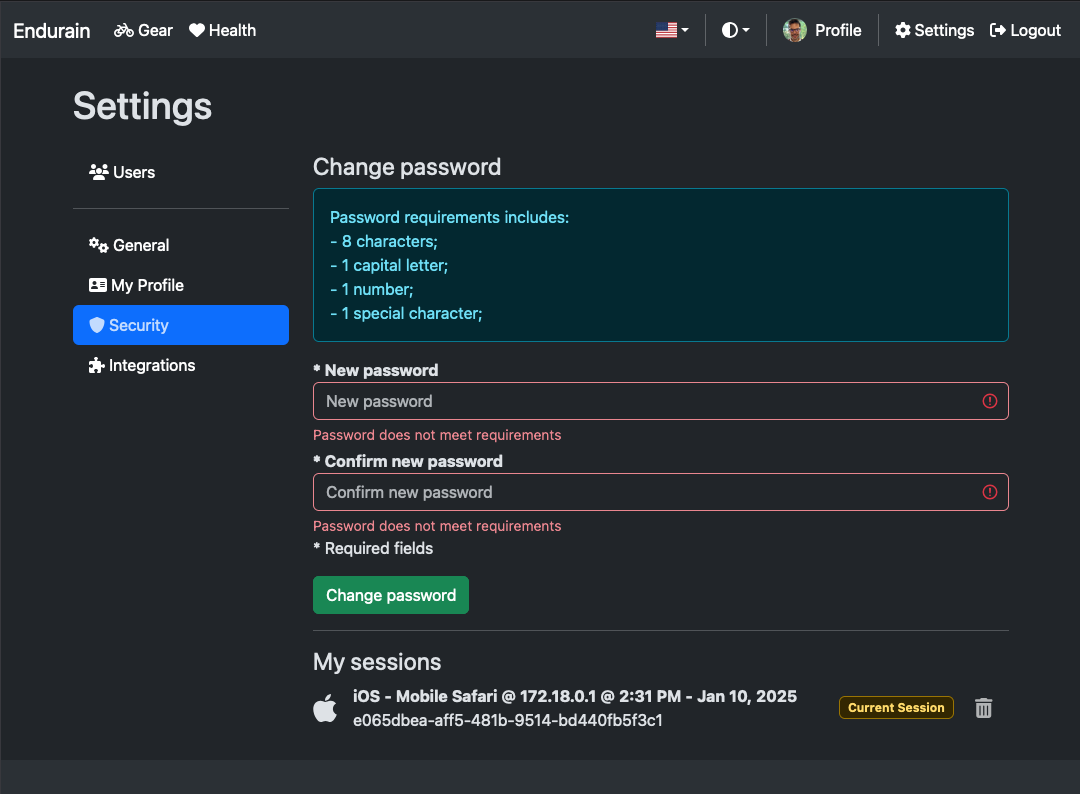
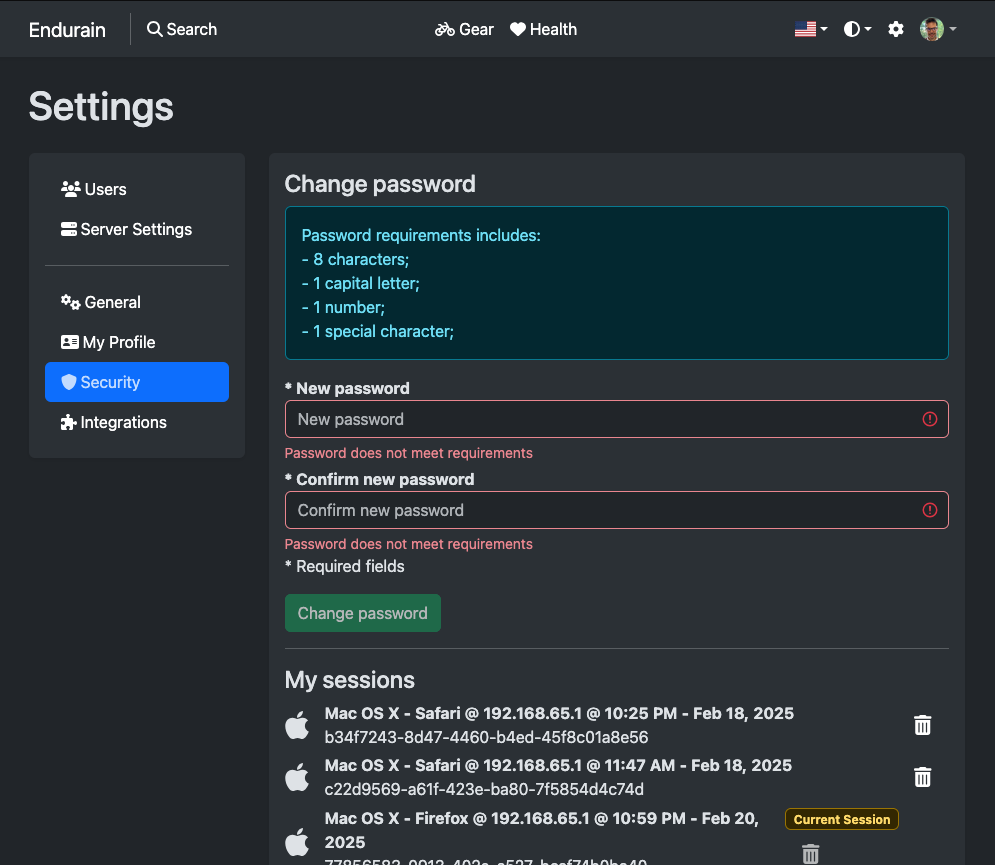
Updated docs gallery screenshots

diff --git a/docs/index.md b/docs/index.md
@@ -45,17 +45,18 @@ If you have any recommendations or insights on improving any aspect of Endurain,
 
 Endurain currently supports:
 
-- Multi-user functionality
-- Admin and user profiles with adaptable interfaces
+- Multi-user functionality with admin and user profiles adaptable interfaces
 - Activity import via manual or bulk upload (.gpx and .fit files. .fit files are preferred)
 - Strava integration for syncing activities and gear
 - Garmin Connect integration for syncing activities, gear and body composition
 - Activity feeds and statistics (week/month)
 - Basic activity privacy settings
 - Gear tracking (wetsuits, bicycles, shoes)
+- Default gear for activity types
 - User pages with stats and activity histories
 - Follower features (view activities)
 - Multi-language support
+- Imperial and metric units support
 - Dark/light theme switcher
 - Third-party app support
 - Weight logging
@@ -65,7 +66,6 @@ Endurain currently supports:
 Upcoming features (in no particular order):
 
 - Live tracking
-- Default gear for activity types
 - Gear component tracking (e.g., track when components like bike chains need replacing)
 - Activity comments and likes
 - Notification system

diff --git a/docs/gallery.md b/docs/gallery.md
@@ -21,8 +21,9 @@
 ![Profile page](assets/gallery/screenshot_profile.png)
 
 ##### Settings pages
-![Users administrator page page](assets/gallery/screenshot_settings_user.png)
-** Users administrator page only visible to admin users**
+![Users administrator page](assets/gallery/screenshot_settings_user.png)
+![Server settings page](assets/gallery/screenshot_settings_server_settings.png)
+** Users administrator and server settings pages only visible to admin users**
 ![Settings general page](assets/gallery/screenshot_settings_general.png)
 ![Settings profile page](assets/gallery/screenshot_settings_profile.png)
 ![Settings security page](assets/gallery/screenshot_settings_security.png)
